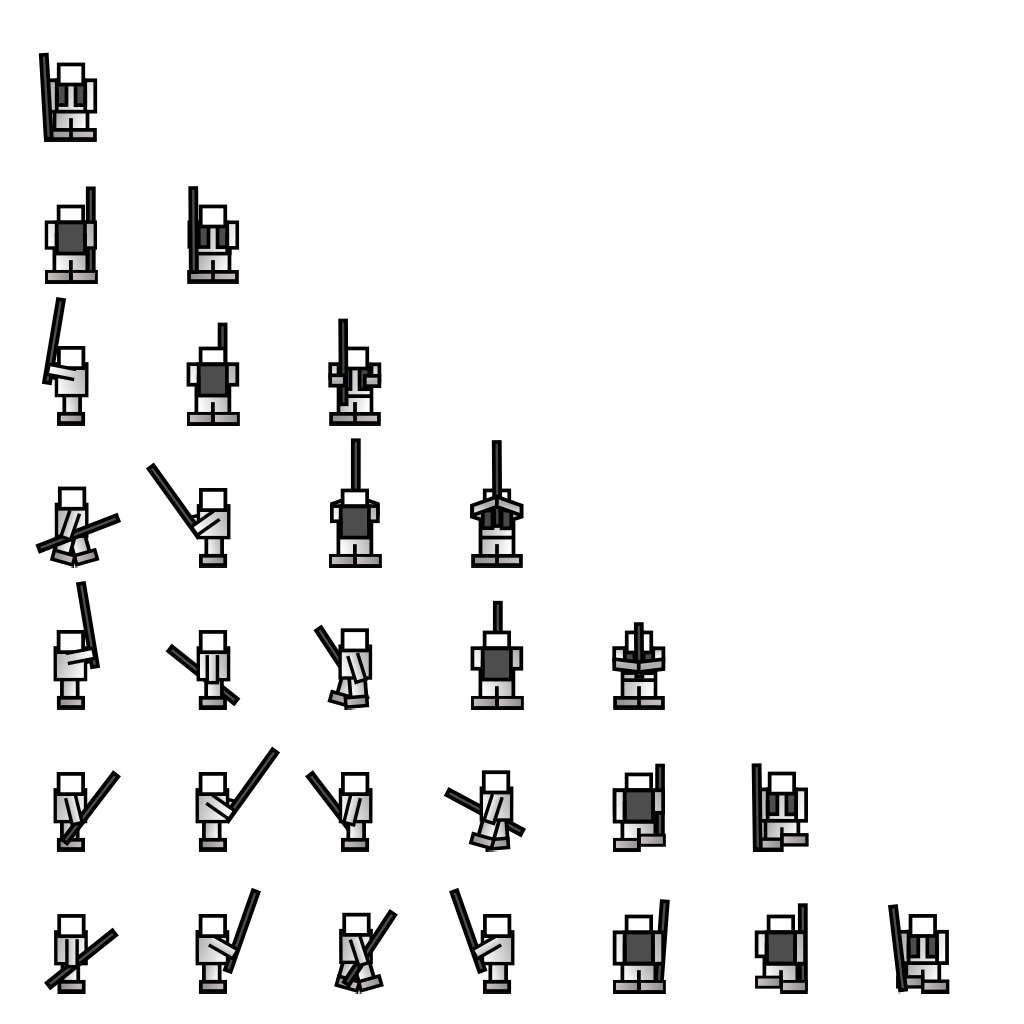
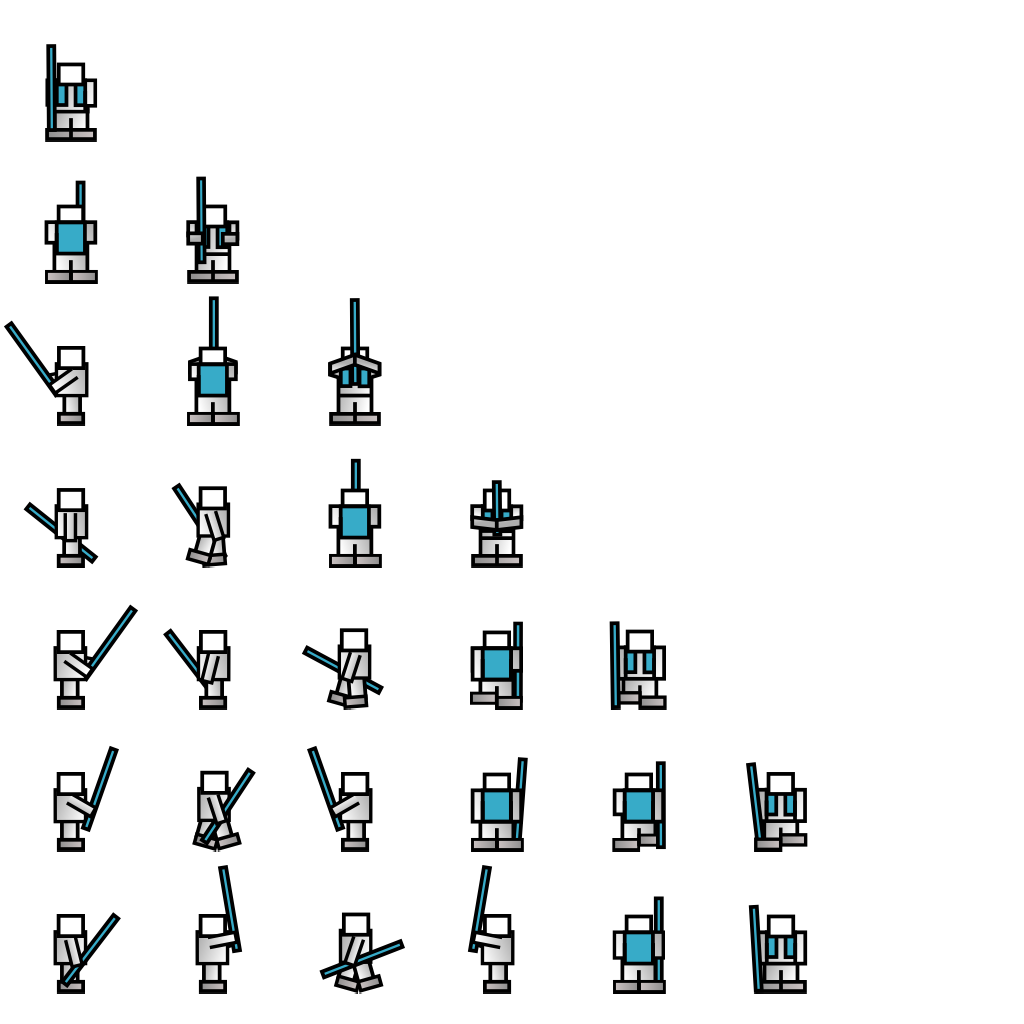
Adjutments:
- Walk textures of Hero and Units are updated.
- Alert panel updated.

diff --git a/medieval-sword/src/com/modules/battle/BattleExitAlert.java b/medieval-sword/src/com/modules/battle/BattleExitAlert.java
@@ -24,6 +24,8 @@ public class BattleExitAlert extends Group {
 	static final int SIZE_H = 200;
 	static final int SIZE_W = 300;
 
+	Actor resume_panel;
+
 	Image alpha;
 	Image background;
 
@@ -34,10 +36,11 @@ public class BattleExitAlert extends Group {
 
 	protected Map<String, String> alert_msg;
 
-	public BattleExitAlert( Vector2i window_size, Vector2i window_position ) {
+	public BattleExitAlert( Vector2i window_size, Vector2i window_position, Actor actor ) {
 		alert_msg = new HashMap<String, String>();
 		alert_msg.put("es", "¿Seguro que quiere salir?");
 		alert_msg.put("en", "Are you sure you want to exit?");
+		resume_panel = actor;
 
 		createAlphaImage();
 		createBackgroundImage( window_size, window_position );
@@ -114,6 +117,9 @@ public class BattleExitAlert extends Group {
 	}
 
 	public void close() {
+		if( resume_panel != null )
+			resume_panel.visible = true;
+
 		stage.removeActor( this );
 		BattleController.mutex = false;
 	}

diff --git a/medieval-sword/src/com/modules/map/ui/OptionsPanel.java b/medieval-sword/src/com/modules/map/ui/OptionsPanel.java
@@ -19,6 +19,7 @@ public class OptionsPanel extends Group {
 	final static int SIZE_H = 210;
 	final int BUTTON_SIZE = 74;
 
+	Actor panel_actor = this;
 	Image background;
 	Image music_on, music_off;
 
@@ -141,8 +142,10 @@ public class OptionsPanel extends Group {
 			public void click(Actor actor, float x, float y) {
 				BattleExitAlert alert = new BattleExitAlert(
 					new Vector2i( Constants.SIZE_W - Constants.HUD_WIDTH, Constants.SIZE_H),
-					new Vector2i( Constants.HUD_WIDTH, 0 ) );
+					new Vector2i( Constants.HUD_WIDTH, 0 ), panel_actor );
 				alert.show( stage );
+
+				panel_actor.visible = false;
 			}
 		});
 

diff --git a/medieval-sword/src/com/modules/battle/BattleController.java b/medieval-sword/src/com/modules/battle/BattleController.java
@@ -70,7 +70,7 @@ public class BattleController {
 		panel = new BattlePanel();
 		menu  = new BattleExitAlert(
 			new Vector2i( Constants.SIZE_W, Constants.SIZE_H),
-			new Vector2i( 0, 0 ) );
+			new Vector2i( 0, 0 ), null );
 
 		stage.addActor( panel );
 
